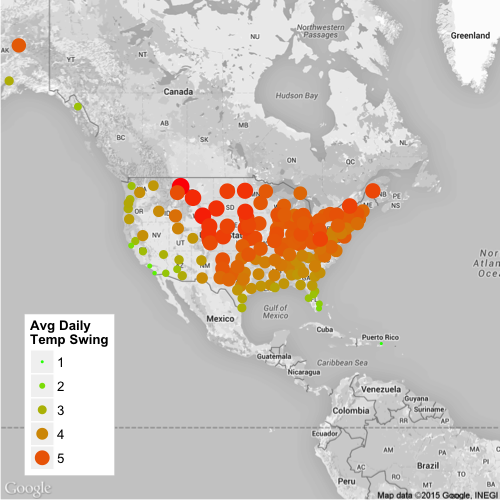
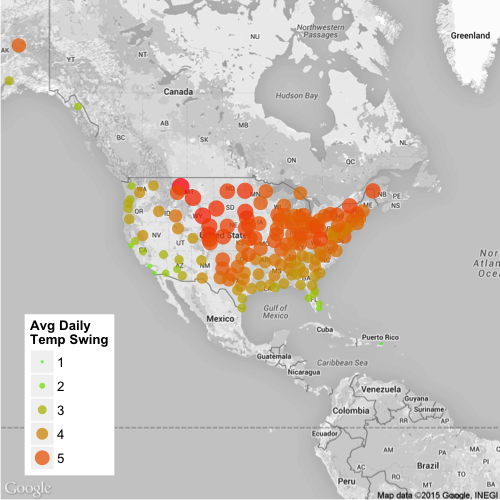
Write most of the temperature post. Other small updates.

diff --git a/_layouts/default-post.html b/_layouts/default-post.html
@@ -19,10 +19,10 @@
             University of Iowa
 		</div>
 	</div>
-	<div class="nav">
-		<div id="navbtn_current">About</div>
-        <div class="navbtn"><a href="{{ site.url }}/projects.html">Projects and Posts</a></div>
-	</div>
+    <div class="nav">
+        <div class="navbtn">About</div>
+        <div id="navbtn_current"><a href="{{ site.url }}/projects.html">Projects and Posts</a></div>
+    </div>
 	<div class="content">
 		<div class="content-post">
 

diff --git a/_posts/2015-05-10-temperature-swings.md b/_posts/2015-05-10-temperature-swings.md
@@ -3,14 +3,53 @@ layout: default-post
 title: Temperature Swings
 ---
 
-A quick brown fox jumps over the lazy dog.
-A quick brown fox jumps over the lazy dog.
-A quick brown fox jumps over the lazy dog.
-A quick brown fox jumps over the lazy dog.
-A quick brown fox jumps over the lazy dog.
-A quick brown fox jumps over the lazy dog.
-A quick brown fox jumps over the lazy dog.
-A quick brown fox jumps over the lazy dog.
-A quick brown fox jumps over the lazy dog.
+People seem to dislike when the weather changes abruptly, as if it's a
+cruel joke played by Mother Nature, and I get the impression that
+everyone thinks there own weather is more unpredictable than others'.
+Nate Silver and Reuben Fischer-Baum of [fivethirtyeight.com](http://fivethirtyeight.com) 
+recently analyzed temperature, precipitation, and severe weather
+data from [Weather Underground](http://weatherunderground.com)
+to determine [which city has the most unpredictable weather](
+http://fivethirtyeight.com/features/which-city-has-the-most-unpredictable-weather/
+) in the United States. They concluded that the Great Plains and the
+Upper Midwest have the most unpredictable weather, while Florida,
+the west coast, and Hawaii are at the other end of the spectrum.
 
-![alt text]({{ site.url }}/2015-05-10-temperature-swings/temperature-swings-web.png)
+I wanted to reproduce their basic analysis but with a simpler approach
+and easier-to-obtain data set, and I also wanted to complete the full
+analysis in R.
+
+First off, I collected data from the [Average Daily Temperature
+Archive]( http://academic.udayton.edu/kissock/http/Weather/) at the
+[University of Dayton](https://www.udayton.edu). For over 150 locations
+in the United States, including Hawaii, Alaska, and Puerto Rico, the
+data set gives the average daily temperature at each location
+for every day since January 1, 1995. For simplicity, I call this
+measurement just the *temperature*.
+
+To measure the weather changes on a day-by-day basis, I calculate at
+each location the *average daily temperature swing*. For example, if
+the temperature in Des Moines is 67 on Monday and 72 on Tuesday, then
+the daily temperature change is 5. If the temperature then drops to 50
+on Wednesday, the second daily temperature change is 22. (Note that
+I measure the change in positive values even if the temperature goes
+down.) For those two days, the average daily temperature swing is (5 +
+22)/2 = 13.5. For every location, the average is calculated for all days
+in the data set, roughly 7,300 days for each location.
+
+The figure below shows the average daily temperature swings across the
+United States. Greater swings are indicated by bigger plot points and
+with more intense reds, while smaller swings are small and green.
+Hawaii was calculated but couldn't be shown well in this figure;
+it is tiny and green.
+
+![Average Daily Temperature Swings]({{ site.url }}/2015-05-10-temperature-swings/temperature-swings-web.png)
+
+Overall, we reach the same conclusion as Silver and Fischer-Baum: if you
+like predictable weather, then head towards Florida, the west coast,
+Hawaii, and Puerto Rico. On the other hand, if you desire excitement in
+your life, then the Great Plains and Upper Midwest are where you should
+be.
+
+* Download the [high-resolution image]({{ site.url }}/2015-05-10-temperature-swings/temperature-swings.png).
+* Download the [R source code]({{ site.url }}/2015-05-10-temperature-swings/main.R).
